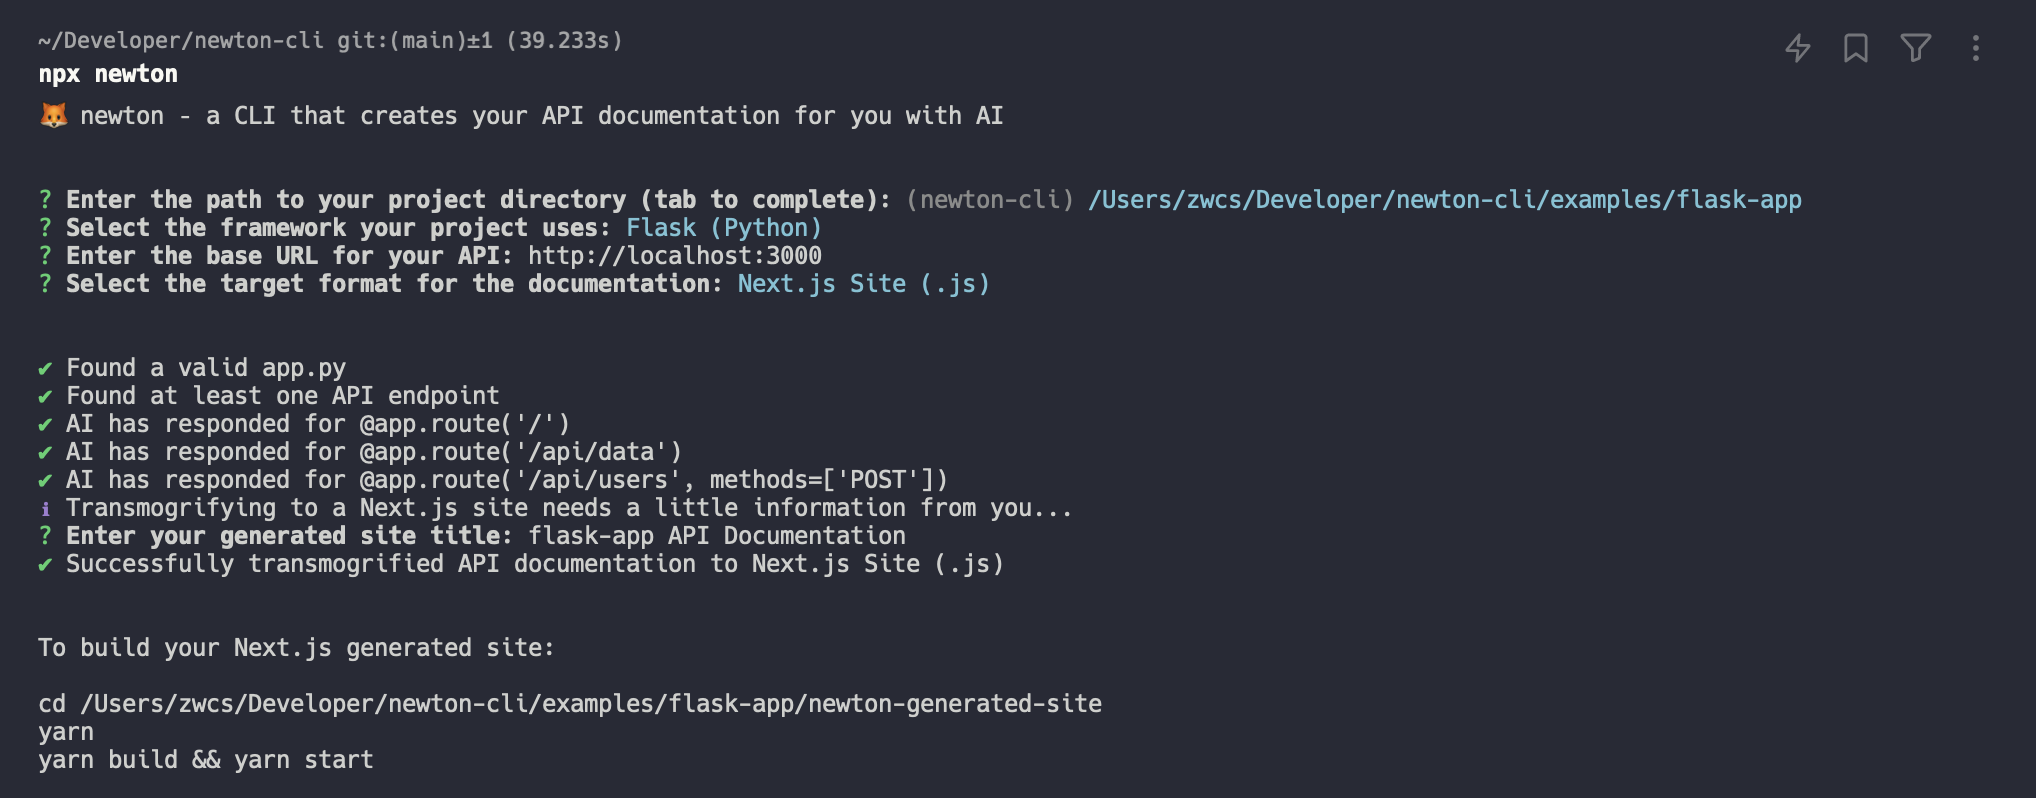
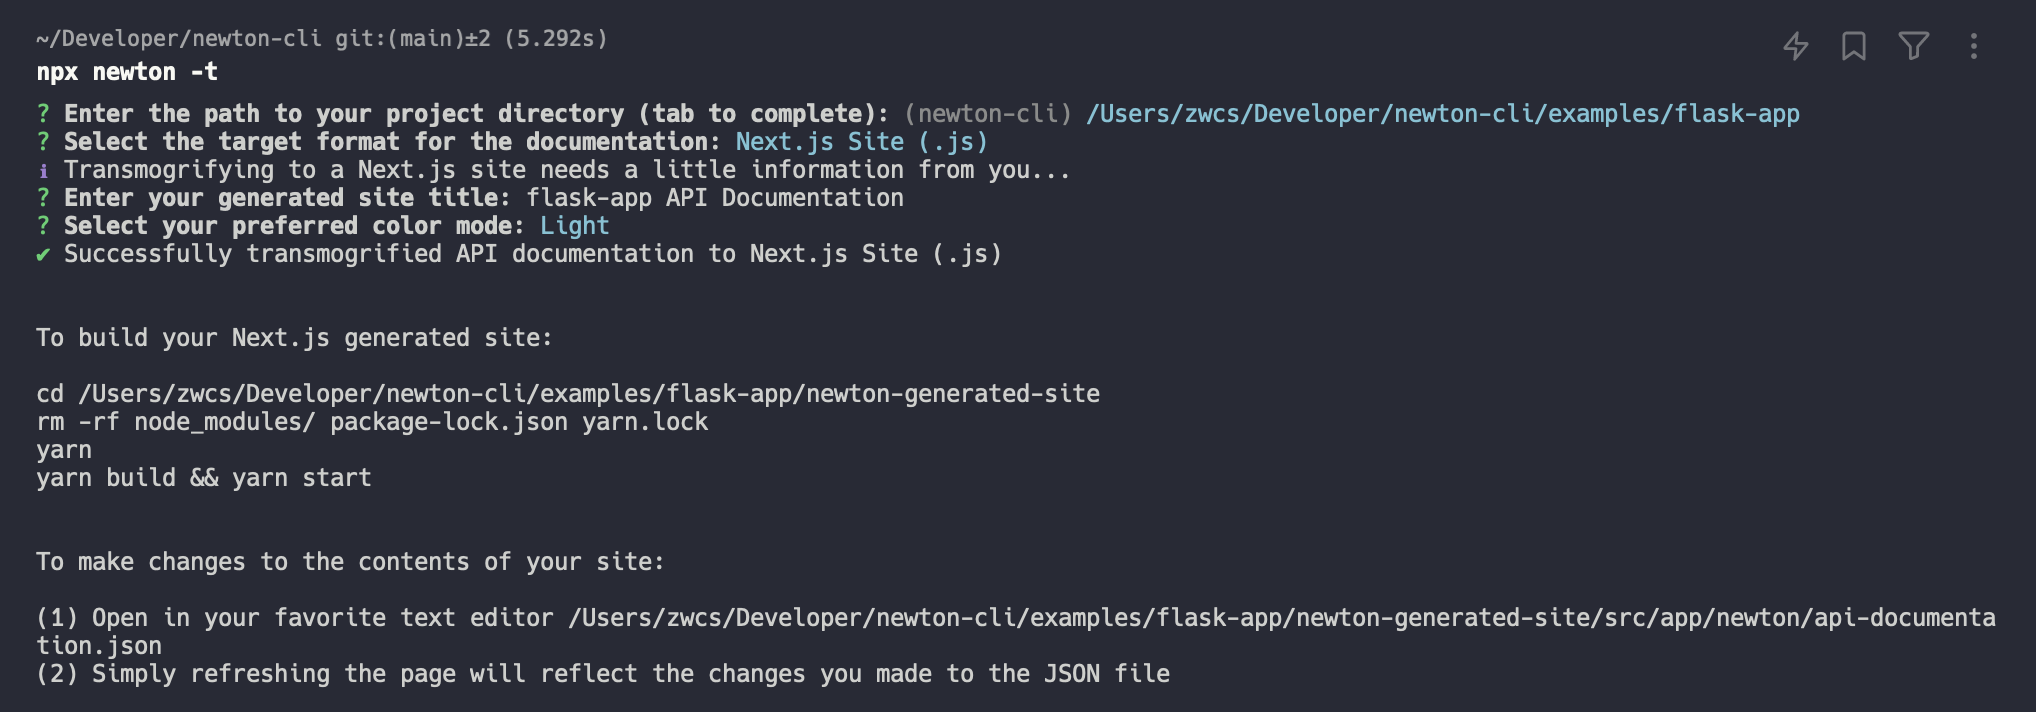
style: make Next complete export logging more helpful, update its example screenshot

diff --git a/src/utils/transmogrify.js b/src/utils/transmogrify.js
@@ -234,8 +234,13 @@ async function next_handler(json_file, save_path, base_url) {
     console.log("\n");
     console.log("To build your Next.js generated site:\n");
     console.log("cd " + target);
+    console.log("rm -rf node_modules/ package-lock.json yarn.lock");
     console.log("yarn");
     console.log("yarn build && yarn start");
+    console.log("\n");
+    console.log("To make changes to the contents of your site:\n");
+    console.log("(1) Open in your favorite text editor " + target + "/src/app/newton/api-documentation.json");
+    console.log("(2) Simply refreshing the page will reflect the changes you made to the JSON file");
   });
 }
 
